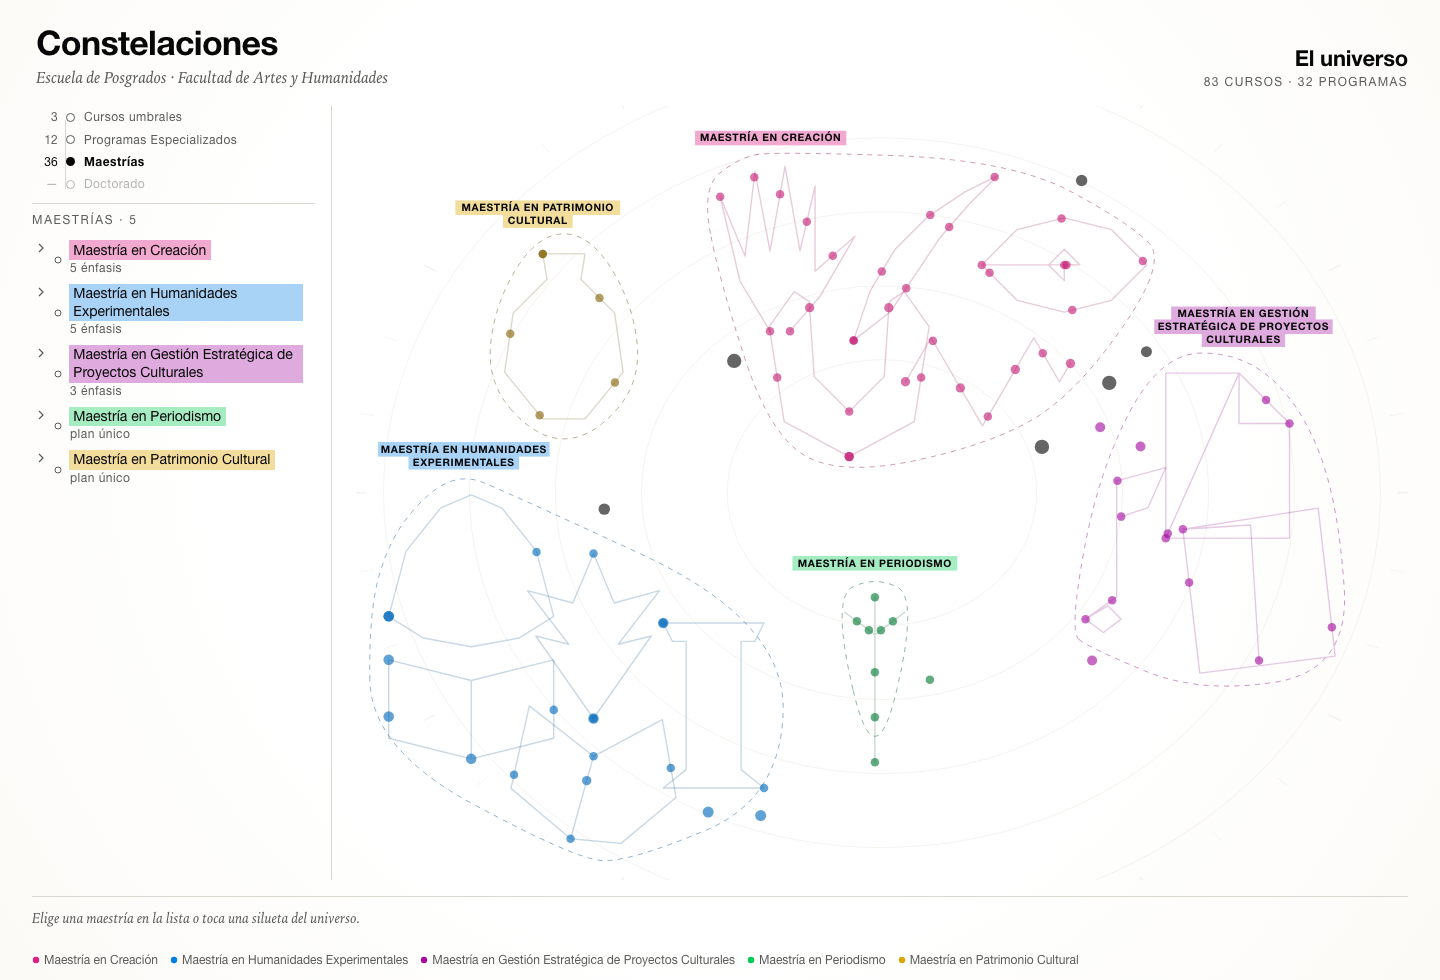
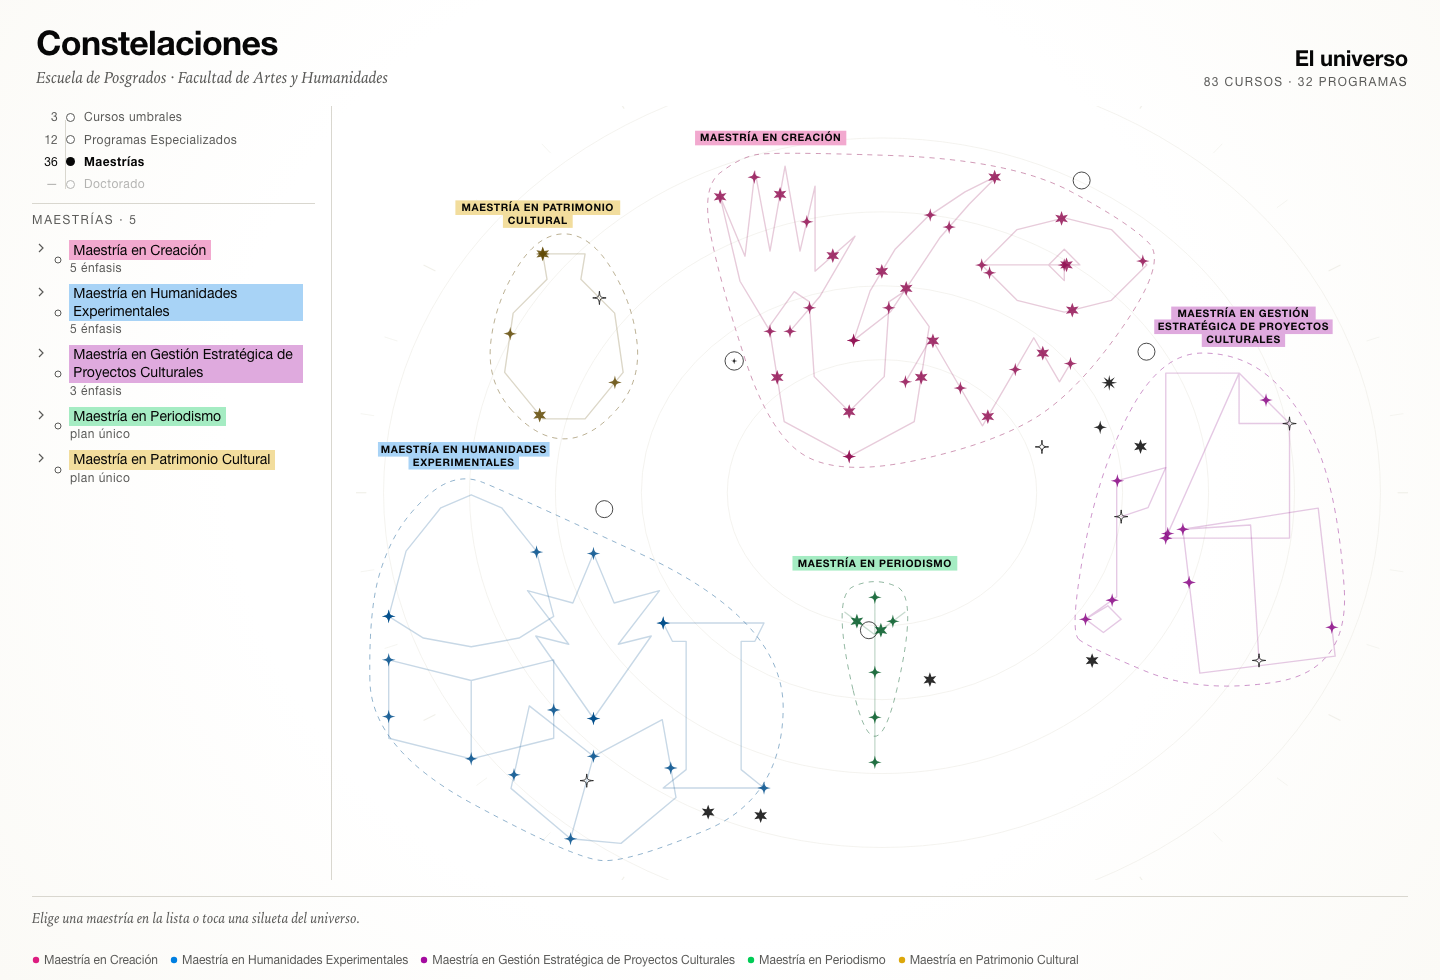
Una sola gramática: estrellas, rótulos y foco
- todo curso se dibuja como estrella; los ejes especiales conservan su icono
- rótulos fijos solo donde nombran el objeto de la vista; el resto al pasar el cursor
- la marca de figura deja de pintarse sin texto
- enfocar una figura enciende sus cursos y muestra sus códigos
- docs y capturas

diff --git a/src/lib/components/SkyStage.svelte b/src/lib/components/SkyStage.svelte
@@ -237,6 +237,7 @@
     {#each escena.figuras as f (f.programaId)}
       {@const activa = foco?.tipo === 'programa' && foco.id === f.programaId}
       {@const nombreFig = curriculum.programas[f.programaId]?.nombreCorto ?? ''}
+      {@const etiquetaFija = escena.figuras.length > 1}
       {#if escena.figuras.length > 1}
         <!-- una maestría con énfasis: cada figura es una puerta a su plan -->
         <g
@@ -270,14 +271,14 @@
             y={Math.max(...f.puntos.map((q) => q[1])) + 8}
             width={nombreFig.length * 7.9 + 18}
             height="18"
-            class="fondo-region {marcaDe(f.programaId)}"
-            class:visible={activa}
+            class="fondo-figura {marcaDe(f.programaId)}"
+            class:visible={activa || etiquetaFija}
           />
           <text
             x={f.puntos.reduce((a, q) => a + q[0], 0) / f.puntos.length}
             y={Math.max(...f.puntos.map((q) => q[1])) + 21.5}
             class="nombre-figura"
-            class:visible={activa}
+            class:visible={activa || etiquetaFija}
           >{nombreFig}</text>
         </g>
       {:else}
@@ -296,57 +297,17 @@
     {#each escena.estrellas as e (e.clave)}
       {@const c = curriculum.cursos[e.cursoId]}
       {@const p = pos[e.clave] ?? [e.x, e.y]}
-      {@const r = enFragmento ? 7 : radioDe(c.nProgramas)}
-      {#if e.estado === 'oculto'}
-        <!-- fuera de esta escala -->
-      {:else if e.estado === 'nebulosa'}
-        {#if !enFragmento}
-          {@const fam = familiaDe(e.cursoId)}
-          {@const rr = Math.max(3.2, r * 0.42)}
-          {#if nivel === 'curso'}
-            <g
-              class="punto-umbral"
-              class:resaltada={resaltado === e.cursoId}
-              role="button"
-              tabindex="0"
-              aria-label="{c.nombre}, {c.creditos} créditos"
-              onmouseenter={() => onHover(e.cursoId)}
-              onmouseleave={() => onHover(null)}
-              onfocus={() => onHover(e.cursoId)}
-              onblur={() => onHover(null)}
-              onclick={() => onAbrirCurso(e.cursoId)}
-              onkeydown={(ev) => {
-                if (ev.key === 'Enter' || ev.key === ' ') {
-                  ev.preventDefault()
-                  onAbrirCurso(e.cursoId)
-                }
-              }}
-            >
-              <circle cx={p[0]} cy={p[1]} r={Math.max(11, rr * 2.6)} fill="transparent" />
-              <circle
-                cx={p[0]}
-                cy={p[1]}
-                r={rr}
-                fill={fam === 'ink' ? 'var(--c-ink)' : `var(--c-${fam}-3)`}
-                opacity="0.85"
-              />
-            </g>
-          {:else}
-            <circle
-              cx={p[0]}
-              cy={p[1]}
-              r={rr}
-              fill={fam === 'ink' ? 'var(--c-ink)' : `var(--c-${fam}-3)`}
-              opacity={enNebulosa ? 0.62 : 0.22}
-            />
-          {/if}
-        {/if}
-      {:else}
-        {@const color = colorEstrella(e.en)}
+      {@const deFoco = foco?.tipo === 'programa' && e.dueno === foco.id}
+      {@const senalada = foco?.tipo === 'curso' && foco.id === e.cursoId}
+      {@const r = enFragmento || !enNebulosa ? radioDe(c.nProgramas) : 6.6}
+      {@const color = colorEstrella(e.en)}
+      {#if e.estado !== 'oculto'}
         <g
           transform="translate({p[0]},{p[1]})"
           class="estrella"
-          class:resaltada={resaltado === e.cursoId}
+          class:resaltada={senalada}
+          class:de-foco={deFoco}
+          class:apagada={!enNebulosa && !deFoco && e.estado === 'nebulosa'}
           role="button"
           tabindex="0"
           aria-label="{c.nombre}, {c.creditos} créditos"
@@ -362,7 +323,7 @@
             }
           }}
         >
-          {#if resaltado === e.cursoId}
+          {#if senalada || deFoco}
             <circle r={r * 2.6} class="halo" />
           {/if}
           <StarGlyph eje={c.eje} r={r} {color} />
@@ -371,8 +332,7 @@
           x={p[0] + r + 7}
           y={p[1] - r - 2}
           class="código"
-          class:fragmento={enFragmento}
-          class:visible={!viajando || resaltado === e.cursoId}
+          class:visible={!viajando && ((!enNebulosa && e.estado === 'figura') || deFoco || senalada)}
         >{c.codigo}</text>
       {/if}
     {/each}
@@ -535,8 +495,19 @@
   }
 
   .nombre-figura.visible,
-  .fondo-region.visible {
+  .fondo-figura.visible,
+  .etiqueta.visible {
     opacity: 1;
+  }
+
+  .fondo-figura {
+    opacity: 0;
+    transition: opacity var(--t-fast) var(--ease);
+  }
+
+  .etiqueta {
+    opacity: 0;
+    transition: opacity var(--t-fast) var(--ease);
   }
 
   .silueta {
@@ -569,6 +540,16 @@
   .estrella {
     cursor: pointer;
     outline: none;
+    opacity: 0.85;
+    transition: opacity var(--t-fast) var(--ease);
+  }
+
+  .estrella.apagada {
+    opacity: 0.13;
+  }
+
+  .estrella.de-foco {
+    opacity: 1;
   }
 
   .estrella:focus-visible .halo {

diff --git a/docs/design-system.md b/docs/design-system.md
@@ -112,7 +112,24 @@ Reglas:
 - Nunca es el único portador de significado: el nombre del programa y la palabra «periodo» siguen
   ahí aunque no se distinga el color.
 
-### 3.4 El foco es uno solo
+### 3.4 Rótulos: fijos o al pasar el cursor
+
+Un rótulo es fijo si nombra **el objeto de la vista**; si no, aparece al pasar el cursor.
+
+| Dónde | Rótulo |
+|---|---|
+| Universidad, escala de maestría | **fijo**: nombre de cada región (maestría) |
+| Maestría abierta (familia) | **fijo**: nombre de cada énfasis |
+| Escala del especializado | al pasar el cursor |
+| Escala de cursos umbrales | ninguno |
+
+Los códigos de curso siguen la misma lógica: aparecen en la constelación abierta y al enfocar una
+figura; nunca en el universo, donde serían 91 etiquetas.
+
+**Regla:** todo rótulo lleva su marca de familia; el texto va en tinta. No hay rótulos «a pelo» ni
+rectángulos de color sin texto.
+
+### 3.5 El foco es uno solo
 
 Señalar algo en cualquier superficie produce el mismo efecto en todas las demás: la fila se enciende
 y la lista **se desplaza hasta ella**. No hay un «resaltado» por componente; hay un `Foco`:
@@ -128,7 +145,7 @@ type Foco = { tipo: 'curso' | 'programa'; id: string }
 Regla: cualquier superficie nueva que muestre cursos o programas **debe** recibir `foco` y pintar la
 fila correspondiente. Sin eso, la interfaz vuelve a señalar sin encontrarse.
 
-### 3.5 Estado del dato
+### 3.6 Estado del dato
 
 | Estado | Tratamiento |
 |---|---|
@@ -182,7 +199,7 @@ radio: el cielo de fondo no compite con la constelación encendida.
 | `Region` | `puntos` | visible, oculta, rótulo pulsable | Contorno discontinuo que encierra las figuras de una maestría. Su rótulo es un botón: abre la maestría. Trazo 1, 45 % de opacidad, rótulo partido en líneas. Solo en la escala «maestría». No se usa en la vista de detalle: allí la figura ya es la forma. |
 | `SilhouetteSelector` | `siluetas`, `onElegir` | normal, hover, foco | Sin selección, las quince siluetas repartidas por el cielo, sin pisarse. Trazo al 22 %; al pasar el cursor, 85 % y el nombre. Zona de contacto: relleno transparente + círculo de 46 px. |
 | `Figure` | `programaId`, `puntos` | normal, hover, foco | En la maestría con énfasis, cada figura es un botón: abre su plan. Trazo con relleno transparente para que se pueda tocar el interior, no solo la línea. En la constelación de un solo programa la figura no es interactiva. |
-| `Star` | `course`, `x`, `y`, `r`, `state` | normal, hover, foco, atenuado | `role="button"`, `aria-label` completo y foco por teclado. Al pasar el cursor: halo y rótulo fijo, y la fila del plan se resalta. Fuera de selección: punto sólido al 22 %. |
+| `Star` | `curso`, `x`, `y`, `r`, `estado` | normal, hover, foco, atenuado | `role="button"`, `aria-label` completo y foco por teclado. Al pasar el cursor: halo y rótulo fijo, y la fila del plan se resalta. Fuera de selección: punto sólido al 22 %. |
 
 | `Rail` | `nivel`, `onNivel`, `programaId` | 4 pasos | Barra de escala vertical, arriba de la lista y dentro de su misma columna: crédito, punto y nombre sobre un eje continuo. El paso activo se rellena; el deshabilitado (doctorado) se atenúa al 45 %. |
 | `PlanPanel` | `programaId`, `resaltado`, `onHover`, `onElegir` | plan, familia | Panel derecho: el plan en orden cronológico, con glifo, nombre completo, código y créditos. En una maestría, plan común más sus énfasis. |

diff --git a/docs/diary.md b/docs/diary.md
@@ -410,3 +410,21 @@ plan común de una maestría flota dentro de su región; los de la Escuela, dond
 figura dibuja su copia. El Seminario teoría 1 aparece cuatro veces y enfocarlo enciende las cuatro.
 *Por qué:* una figura nunca debe parecer incompleta, y la repetición dice la verdad —ese curso
 atraviesa cuatro rutas.
+
+---
+
+## 2026-10-30 · Una sola gramática
+
+**Todo curso es una estrella.** Los puntos del universo eran círculos y las estrellas de la
+constelación, glifos: dos vocabularios para el mismo objeto. Ahora todas son estrellas; los ejes
+especiales —transversal, electiva, laboratorio, tronco— conservan su icono.
+
+**Los rótulos tienen regla.** Fijos cuando nombran el objeto de la vista (regiones de maestría, y los
+énfasis dentro de una maestría abierta); al pasar el cursor en el resto; ninguno en la escala de
+cursos. Los códigos, igual: constelación abierta o figura enfocada, nunca el universo.
+
+**El rectángulo fantasma.** En la familia, la marca de cada figura se pintaba siempre mientras el
+texto esperaba al cursor: un rectángulo de color sin nombre. Ahora marca y texto comparten estado.
+
+**Enfocar una figura enciende sus cursos.** Era lo que faltaba: se veía la silueta sin saber qué
+estrellas eran suyas.
